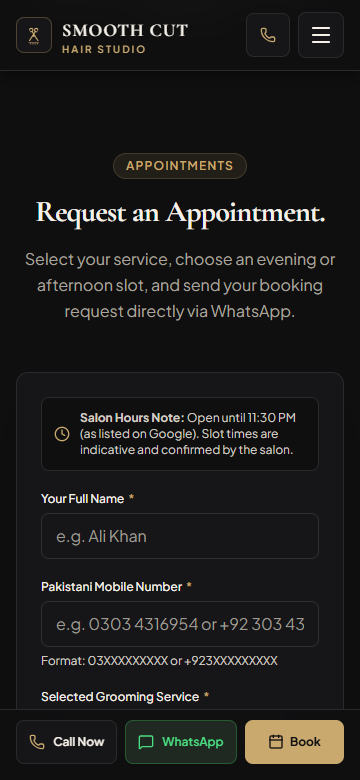
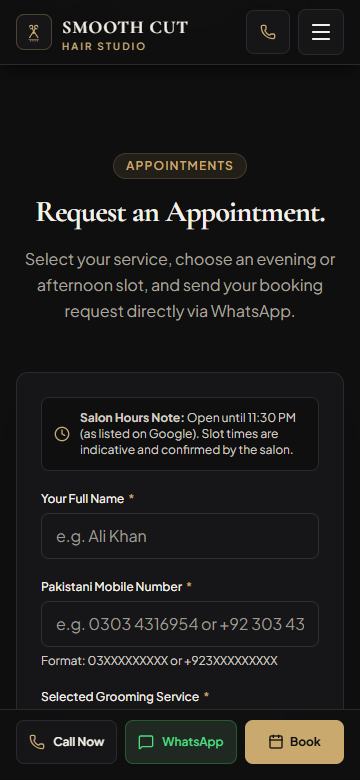
fix(mobile-nav): fix link navigation, smooth scroll, button prop forwarding, and slide-in transition

diff --git a/src/components/layout/Navbar.tsx b/src/components/layout/Navbar.tsx
@@ -32,7 +32,7 @@ export const Navbar: React.FC<NavbarProps> = ({ salon }) => {
   const sectionIds = navLinks.map(l => l.id);
   const activeSectionId = useScrollSpy(sectionIds, 120);
 
-  // Scroll listener for sticky navbar blur state
+  // Scroll listener for sticky navbar background state
   useEffect(() => {
     const handleScroll = () => {
       setIsScrolled(window.scrollY > 20);
@@ -73,24 +73,53 @@ export const Navbar: React.FC<NavbarProps> = ({ salon }) => {
     return () => window.removeEventListener('keydown', handleKeyDown);
   }, [mobileMenuOpen]);
 
-  const closeMobileMenu = () => {
-    setMobileMenuOpen(false);
+  // Smooth scroll handler for both mobile and desktop
+  const handleNavLinkClick = (
+    e: React.MouseEvent<HTMLAnchorElement>,
+    href: string
+  ) => {
+    if (href.startsWith('#')) {
+      e.preventDefault();
+
+      // Close mobile drawer first
+      setMobileMenuOpen(false);
+
+      // Immediately unlock body scroll so browser can scroll freely
+      document.body.style.overflow = '';
+      document.body.style.paddingRight = '';
+
+      const targetId = href.replace('#', '');
+      const targetElement = document.getElementById(targetId);
+
+      if (targetId === 'hero') {
+        window.scrollTo({ top: 0, behavior: 'smooth' });
+      } else if (targetElement) {
+        targetElement.scrollIntoView({ behavior: 'smooth', block: 'start' });
+      }
+
+      try {
+        window.history.pushState(null, '', href);
+      } catch {
+        // Ignore state push errors in sandboxes
+      }
+    }
   };
 
   return (
     <header
-      className={`fixed top-0 inset-x-0 z-40 transition-all duration-300 ${
-        isScrolled
-          ? 'bg-[#0F0F10]/92 backdrop-blur-md border-b border-[#2A2A2D] shadow-lg shadow-black/30 py-3'
-          : 'bg-transparent py-4 md:py-6'
+      className={`fixed top-0 inset-x-0 z-50 transition-colors duration-200 ${
+        isScrolled || mobileMenuOpen
+          ? 'bg-[#0F0F10]/95 backdrop-blur-md border-b border-[#2A2A2D] shadow-lg shadow-black/40'
+          : 'bg-transparent'
       }`}
     >
       <div className="max-w-7xl mx-auto px-4 sm:px-6 lg:px-8">
-        <nav className="flex items-center justify-between" aria-label="Main Navigation">
+        <nav className="flex items-center justify-between h-16 md:h-20" aria-label="Main Navigation">
           {/* Logo link */}
           <a
             href="#hero"
-            className="focus-visible:outline-2 focus-visible:outline-[#C9A96E] rounded-md"
+            onClick={(e) => handleNavLinkClick(e, '#hero')}
+            className="focus-visible:outline-2 focus-visible:outline-[#C9A96E] rounded-md transition-transform active:scale-[0.98]"
           >
             <BrandLogo identity={salon.identity} size="md" />
           </a>
@@ -103,6 +132,7 @@ export const Navbar: React.FC<NavbarProps> = ({ salon }) => {
                 <li key={link.id}>
                   <a
                     href={link.href}
+                    onClick={(e) => handleNavLinkClick(e, link.href)}
                     aria-current={isActive ? 'page' : undefined}
                     className={`px-3 py-2 rounded-md text-sm font-medium transition-colors ${
                       isActive
@@ -127,7 +157,12 @@ export const Navbar: React.FC<NavbarProps> = ({ salon }) => {
               <span>{salon.contact.phoneDisplay}</span>
             </a>
 
-            <Button href="#booking" size="sm" variant="primary">
+            <Button
+              href="#booking"
+              size="sm"
+              variant="primary"
+              onClick={(e) => handleNavLinkClick(e as unknown as React.MouseEvent<HTMLAnchorElement>, '#booking')}
+            >
               <Calendar className="w-4 h-4 mr-1.5" aria-hidden="true" />
               Book Appointment
             </Button>
@@ -137,7 +172,7 @@ export const Navbar: React.FC<NavbarProps> = ({ salon }) => {
           <div className="flex items-center gap-2 lg:hidden">
             <a
               href={`tel:${salon.contact.phoneTel}`}
-              className="p-2.5 rounded-lg bg-[#161618] text-[#C9A96E] border border-[#2A2A2D] hover:bg-[#2A2A2D] transition-colors min-w-[44px] min-h-[44px] flex items-center justify-center focus-visible:outline-2 focus-visible:outline-[#C9A96E]"
+              className="p-2.5 rounded-lg bg-[#161618] text-[#C9A96E] border border-[#2A2A2D] hover:bg-[#2A2A2D] transition-colors min-w-[44px] min-h-[44px] flex items-center justify-center focus-visible:outline-2 focus-visible:outline-[#C9A96E] active:scale-95"
               aria-label={`Call ${salon.contact.phoneDisplay}`}
             >
               <Phone className="w-4 h-4" aria-hidden="true" />
@@ -149,7 +184,7 @@ export const Navbar: React.FC<NavbarProps> = ({ salon }) => {
               aria-expanded={mobileMenuOpen}
               aria-controls="mobile-nav-drawer"
               aria-label={mobileMenuOpen ? 'Close navigation menu' : 'Open navigation menu'}
-              className="p-2.5 rounded-lg bg-[#161618] text-[#F5F0E8] border border-[#2A2A2D] hover:bg-[#2A2A2D] hover:text-[#C9A96E] transition-colors min-w-[44px] min-h-[44px] flex items-center justify-center focus-visible:outline-2 focus-visible:outline-[#C9A96E]"
+              className="p-2.5 rounded-lg bg-[#161618] text-[#F5F0E8] border border-[#2A2A2D] hover:bg-[#2A2A2D] hover:text-[#C9A96E] transition-colors min-w-[44px] min-h-[44px] flex items-center justify-center focus-visible:outline-2 focus-visible:outline-[#C9A96E] active:scale-95 cursor-pointer"
             >
               {mobileMenuOpen ? (
                 <X className="w-6 h-6" aria-hidden="true" />
@@ -161,12 +196,12 @@ export const Navbar: React.FC<NavbarProps> = ({ salon }) => {
         </nav>
       </div>
 
-      {/* Mobile Drawer Overlay */}
+      {/* Mobile Drawer Overlay: smooth slide-down + fade */}
       {mobileMenuOpen && (
         <div
           id="mobile-nav-drawer"
           ref={mobileMenuRef}
-          className="fixed inset-0 top-[65px] z-50 bg-[#0F0F10]/98 backdrop-blur-xl border-t border-[#2A2A2D] lg:hidden flex flex-col justify-between p-6 overflow-y-auto animate-in fade-in duration-200"
+          className="fixed top-16 inset-x-0 h-[calc(100dvh-4rem)] z-50 bg-[#0F0F10]/98 backdrop-blur-xl border-t border-[#2A2A2D] lg:hidden flex flex-col justify-between p-6 pb-28 overflow-y-auto overscroll-contain animate-drawer-in"
           role="dialog"
           aria-modal="true"
           aria-label="Mobile Navigation"
@@ -176,22 +211,23 @@ export const Navbar: React.FC<NavbarProps> = ({ salon }) => {
               Navigation
             </p>
             <ul className="flex flex-col gap-1">
-              {navLinks.map(link => {
+              {navLinks.map((link, idx) => {
                 const isActive = activeSectionId === link.id;
+                const formattedIndex = String(idx + 1).padStart(2, '0');
                 return (
                   <li key={link.id}>
                     <a
                       href={link.href}
-                      onClick={closeMobileMenu}
+                      onClick={(e) => handleNavLinkClick(e, link.href)}
                       aria-current={isActive ? 'page' : undefined}
-                      className={`flex items-center justify-between px-4 py-3 rounded-lg text-lg font-medium transition-colors min-h-[48px] ${
+                      className={`flex items-center justify-between px-4 py-3.5 rounded-lg text-lg font-medium transition-all active:scale-[0.98] min-h-[50px] ${
                         isActive
                           ? 'text-[#C9A96E] bg-white/5 font-semibold'
-                          : 'text-[#F5F0E8] hover:text-[#C9A96E] hover:bg-white/5'
+                          : 'text-[#F5F0E8] hover:text-[#C9A96E] hover:bg-white/5 active:bg-white/10'
                       }`}
                     >
                       <span>{link.label}</span>
-                      <span className="text-xs text-[#8A857B]">{link.id === 'hero' ? '01' : ''}</span>
+                      <span className="text-xs text-[#8A857B] font-mono">{formattedIndex}</span>
                     </a>
                   </li>
                 );
@@ -205,7 +241,7 @@ export const Navbar: React.FC<NavbarProps> = ({ salon }) => {
               variant="primary"
               size="lg"
               fullWidth
-              onClick={closeMobileMenu}
+              onClick={(e) => handleNavLinkClick(e as unknown as React.MouseEvent<HTMLAnchorElement>, '#booking')}
             >
               <Calendar className="w-5 h-5 mr-2" aria-hidden="true" />
               Book Appointment
@@ -213,7 +249,7 @@ export const Navbar: React.FC<NavbarProps> = ({ salon }) => {
 
             <a
               href={`tel:${salon.contact.phoneTel}`}
-              className="flex items-center justify-center gap-2 py-3 px-4 rounded-lg bg-[#161618] border border-[#2A2A2D] text-[#F5F0E8] hover:text-[#C9A96E] font-medium text-base min-h-[48px] transition-colors"
+              className="flex items-center justify-center gap-2 py-3 px-4 rounded-lg bg-[#161618] border border-[#2A2A2D] text-[#F5F0E8] hover:text-[#C9A96E] font-medium text-base min-h-[48px] transition-colors active:scale-[0.98]"
             >
               <Phone className="w-4 h-4 text-[#C9A96E]" aria-hidden="true" />
               <span>Call: {salon.contact.phoneDisplay}</span>

diff --git a/src/components/ui/Button.tsx b/src/components/ui/Button.tsx
@@ -1,12 +1,14 @@
 import React from 'react';
 
-export interface ButtonProps extends React.ButtonHTMLAttributes<HTMLButtonElement> {
+export interface ButtonProps extends React.AnchorHTMLAttributes<HTMLAnchorElement> {
   variant?: 'primary' | 'secondary' | 'outline' | 'outline-light' | 'ghost';
   size?: 'sm' | 'md' | 'lg';
   fullWidth?: boolean;
   href?: string;
   target?: string;
   rel?: string;
+  disabled?: boolean;
+  type?: 'button' | 'submit' | 'reset';
   children: React.ReactNode;
 }
 
@@ -17,13 +19,14 @@ export const Button: React.FC<ButtonProps> = ({
   href,
   target,
   rel,
+  disabled,
+  type = 'button',
   children,
   className = '',
-  disabled,
   ...rest
 }) => {
   const baseStyles =
-    'inline-flex items-center justify-center font-medium transition-all duration-200 rounded-lg select-none focus-visible:outline-2 focus-visible:outline-offset-2 disabled:opacity-50 disabled:cursor-not-allowed';
+    'inline-flex items-center justify-center font-medium transition-all duration-200 rounded-lg select-none focus-visible:outline-2 focus-visible:outline-offset-2 disabled:opacity-50 disabled:cursor-not-allowed active:scale-[0.98]';
 
   const sizeStyles = {
     sm: 'text-xs md:text-sm px-3.5 py-2 min-h-[40px]',
@@ -55,6 +58,7 @@ export const Button: React.FC<ButtonProps> = ({
         target={target}
         rel={target === '_blank' && !rel ? 'noopener noreferrer' : rel}
         className={combinedStyles}
+        {...rest}
       >
         {children}
       </a>
@@ -62,7 +66,12 @@ export const Button: React.FC<ButtonProps> = ({
   }
 
   return (
-    <button className={combinedStyles} disabled={disabled} {...rest}>
+    <button
+      type={type}
+      className={combinedStyles}
+      disabled={disabled}
+      {...(rest as React.ButtonHTMLAttributes<HTMLButtonElement>)}
+    >
       {children}
     </button>
   );

diff --git a/src/index.css b/src/index.css
@@ -54,6 +54,21 @@
   scroll-margin-top: 5.5rem;
 }
 
+@keyframes drawerSlideDown {
+  from {
+    opacity: 0;
+    transform: translateY(-12px);
+  }
+  to {
+    opacity: 1;
+    transform: translateY(0);
+  }
+}
+
+.animate-drawer-in {
+  animation: drawerSlideDown 0.25s cubic-bezier(0.16, 1, 0.3, 1) forwards;
+}
+
 @media (min-width: 768px) {
   .section-anchor {
     scroll-margin-top: 6.5rem;
